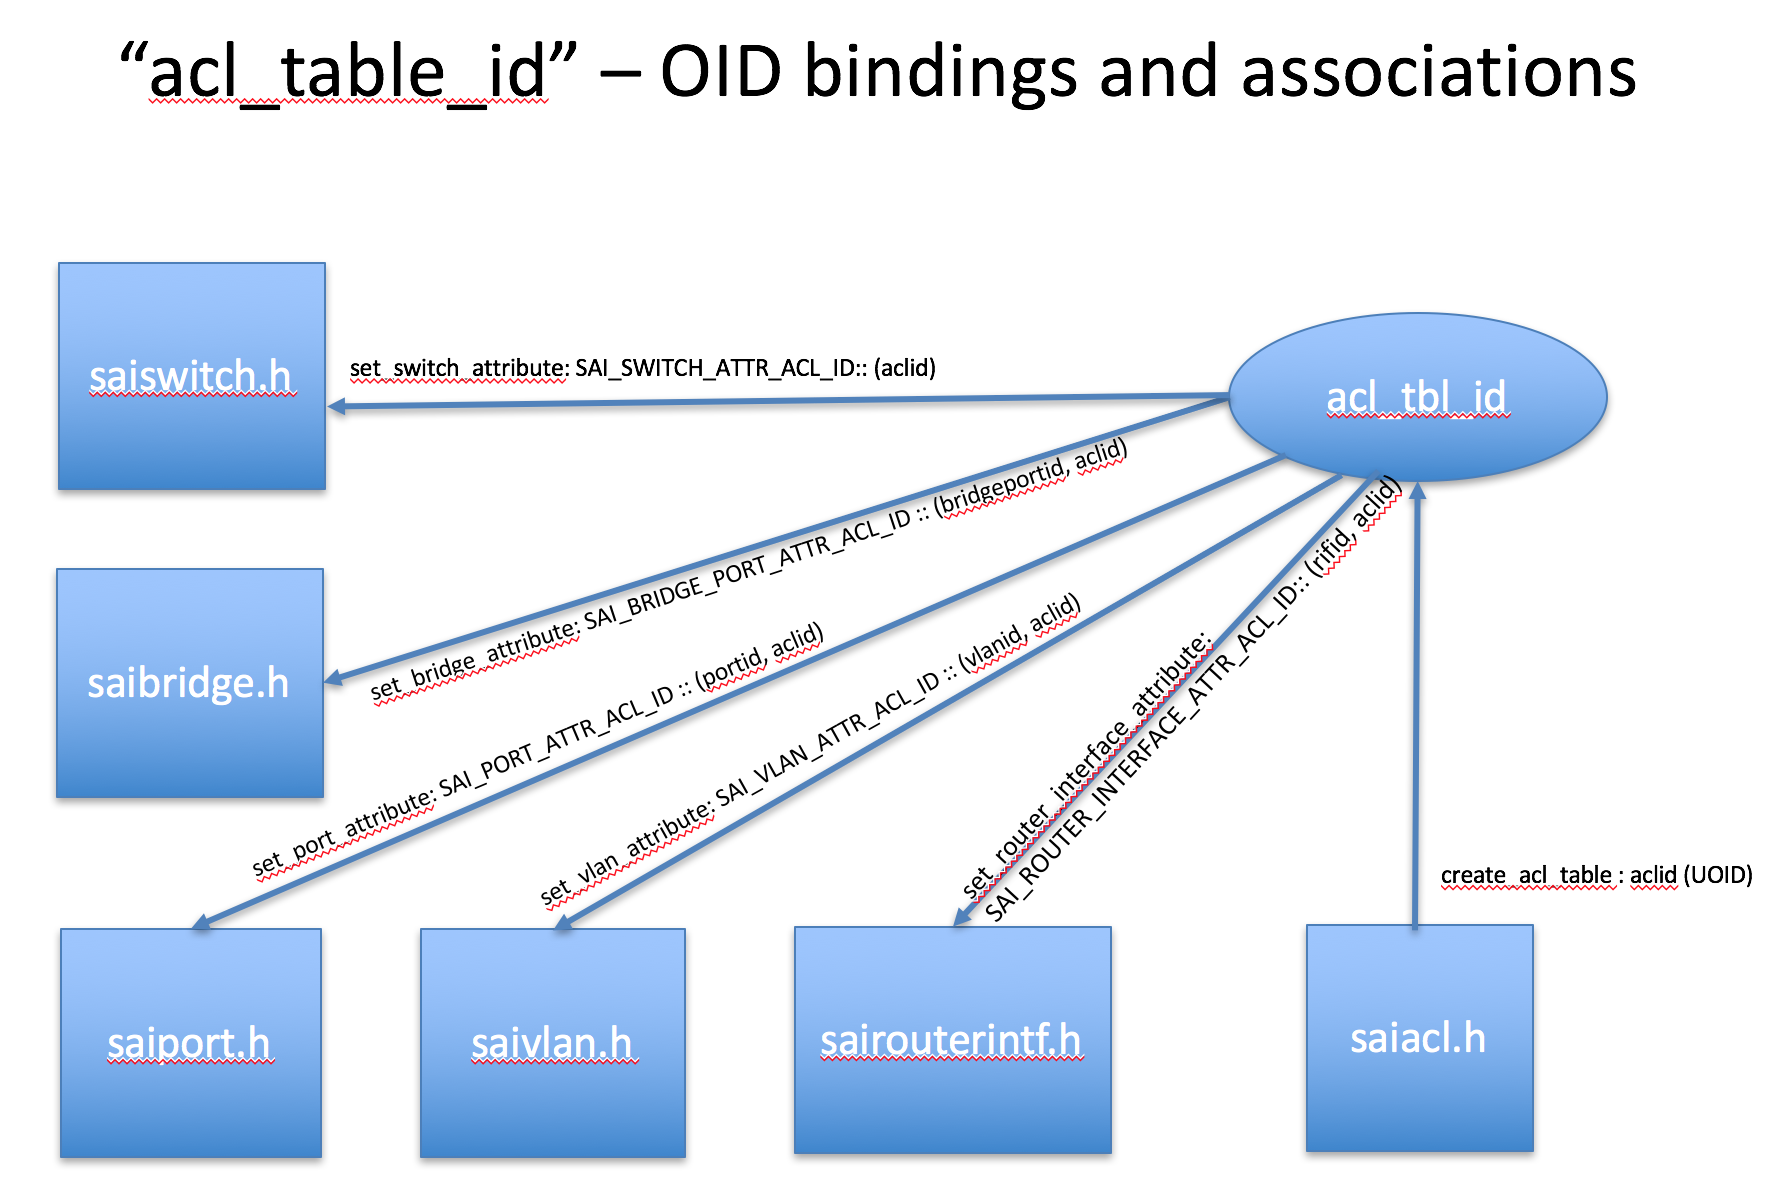
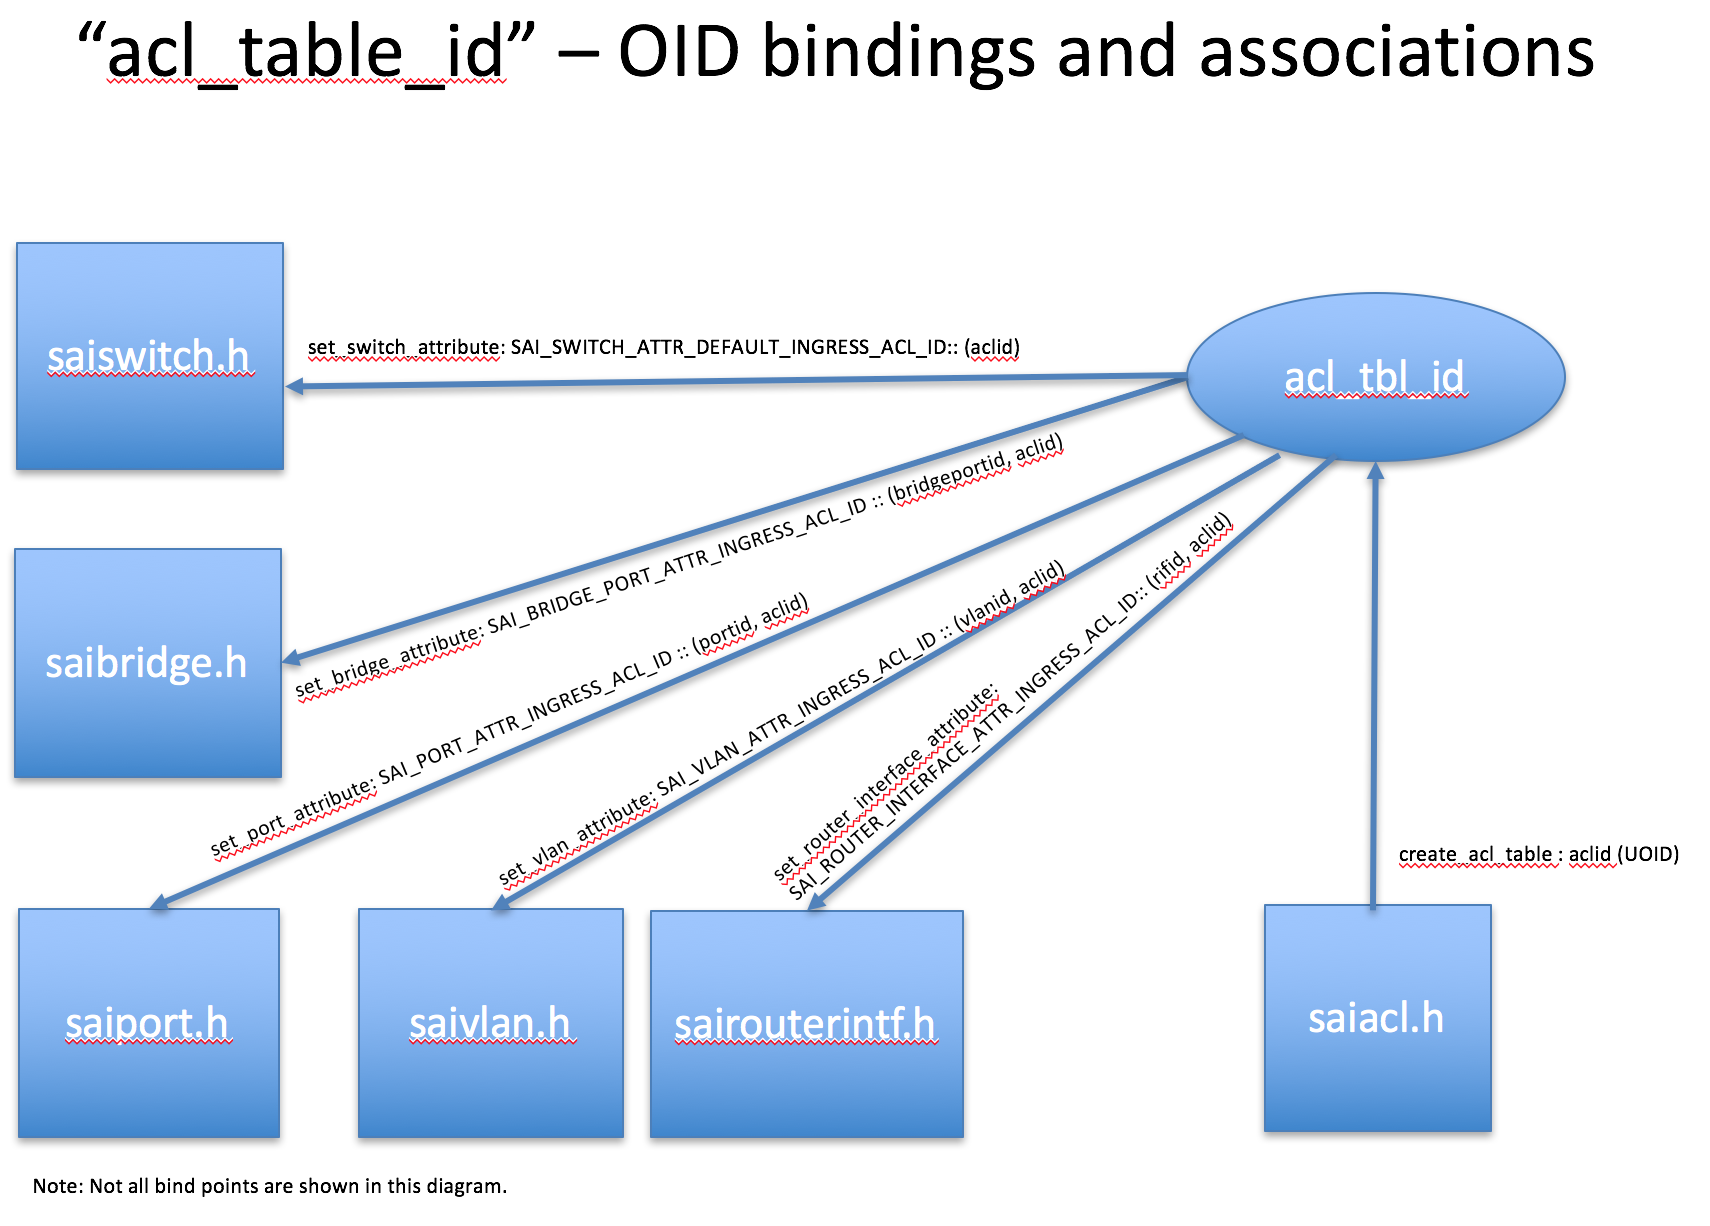
updated acl model with header changes - phase 1 (initial version)

Changed region(s): [[0.0, 0.1859, 0.9918, 0.9916], [0.062, 0.0, 0.9298, 0.093], [0.031, 0.0, 0.062, 0.031]]

diff --git a/inc/saitunnel.h b/inc/saitunnel.h
@@ -266,6 +266,15 @@ typedef enum _sai_tunnel_attr_t
       * (valid when SAI_TUNNEL_ATTR_ENCAP_ECN_MODE=SAI_TUNNEL_ENCAP_ECN_MODE_USER_DEFINED) */
     SAI_TUNNEL_ATTR_ENCAP_MAPPERS,
 
+    /** Bind/Unbind an egress acl on a tunnel after encap [sai_object_id_t].
+     *      Enable (or bind) egress ACL filtering by assigning the ACL table 
+     *      object id as attribute value. 
+     *      Disable (or unbind) egress ACL filtering by assigning 
+     *      SAI_NULL_OBJECT_ID in the attribute value.
+     *      Default Value: SAI_NULL_OBJECT_ID
+     */
+    SAI_TUNNEL_ATTR_ENCAP_EGRESS_ACL_ID,
+
     /** tunnel decap attribute **/
 
     /**  tunnel decap ECN mode [sai_tunnel_decap_ecn_mode_t]
@@ -287,7 +296,25 @@ typedef enum _sai_tunnel_attr_t
      *  (CREATE_ONLY)
      *  Default would be SAI_TUNNEL_DSCP_UNIFORM_MODEL */
     SAI_TUNNEL_ATTR_DECAP_DSCP_MODE,
-    
+
+    /** Bind/Unbind an ingress acl on a tunnel after decap. [sai_object_id_t].
+     *      Enable (or bind) ingress ACL filtering by assigning the ACL table 
+     *      object id as attribute value. 
+     *      Disable (or unbind) ingress ACL filtering by assigning 
+     *      SAI_NULL_OBJECT_ID in the attribute value.
+     *      Default Value: SAI_NULL_OBJECT_ID
+     */
+    SAI_TUNNEL_ATTR_DECAP_INGRESS_ACL_ID,
+
+    /** Bind/Unbind an ingress acl group on a tunnel after decap [sai_object_id_t].
+     *      Enable (or bind) ingress ACL group filtering by assigning 
+     *      the group id as attribute value.
+     *      Disable (or unbind) ingress ACL group filtering by assigning 
+     *      SAI_NULL_OBJECT_ID in the attribute value.
+     *      Default Value: SAI_NULL_OBJECT_ID
+     */
+    SAI_TUNNEL_ATTR_DECAP_INGRESS_ACL_GROUP_ID,
+
     SAI_TUNNEL_ATTR_END,
 
     /** Custom range base value */

diff --git a/inc/sairouterintf.h b/inc/sairouterintf.h
@@ -93,6 +93,33 @@ typedef enum _sai_router_interface_attr_t
     /** MTU [uint32_t] (CREATE_AND_SET) (default to 1514 bytes) */
     SAI_ROUTER_INTERFACE_ATTR_MTU,
 
+    /** Bind/Unbind an ingress acl on a router interface [sai_object_id_t].
+     *      Enable (or bind) ingress ACL filtering by assigning the ACL table 
+     *      object id as attribute value. 
+     *      Disable (or unbind) ingress ACL filtering by assigning 
+     *      SAI_NULL_OBJECT_ID in the attribute value.
+     *      Default Value: SAI_NULL_OBJECT_ID
+     */
+    SAI_ROUTER_INTERFACE_ATTR_INGRESS_ACL_ID,
+
+    /** Bind/Unbind an ingress acl group on a router interface [sai_object_id_t].
+     *      Enable (or bind) ingress ACL group filtering by assigning 
+     *      the group id as attribute value.
+     *      Disable (or unbind) ingress ACL group filtering by assigning 
+     *      SAI_NULL_OBJECT_ID in the attribute value.
+     *      Default Value: SAI_NULL_OBJECT_ID
+     */
+    SAI_ROUTER_INTERFACE_ATTR_INGRESS_ACL_GROUP_ID,
+
+    /** Bind/Unbind an egress acl on a router interface [sai_object_id_t].
+     *      Enable (or bind) egress ACL filtering by assigning the ACL table 
+     *      object id as attribute value. 
+     *      Disable (or unbind) egress ACL filtering by assigning 
+     *      SAI_NULL_OBJECT_ID in the attribute value.
+     *      Default Value: SAI_NULL_OBJECT_ID
+     */
+    SAI_ROUTER_INTERFACE_ATTR_EGRESS_ACL_ID,
+
     /** Packet action when neighbor table lookup miss for this router interface [sai_packet_action_t]
      * (CREATE_AND_SET) (default to SAI_PACKET_ACTION_TRAP) */
     SAI_ROUTER_INTERFACE_ATTR_NEIGHBOR_MISS_PACKET_ACTION,

diff --git a/inc/saiport.h b/inc/saiport.h
@@ -412,6 +412,33 @@ typedef enum _sai_port_attr_t
      * [sai_packet_action_t] (default to SAI_PACKET_ACTION_DROP) */
     SAI_PORT_ATTR_FDB_LEARNING_LIMIT_VIOLATION,
 
+    /** Bind/Unbind an ingress acl on a port [sai_object_id_t].
+     *      Enable (or bind) ingress ACL filtering by assigning the ACL table 
+     *      object id as attribute value. 
+     *      Disable (or unbind) ingress ACL filtering by assigning 
+     *      SAI_NULL_OBJECT_ID in the attribute value.
+     *      Default Value: SAI_NULL_OBJECT_ID
+     */
+    SAI_PORT_ATTR_INGRESS_ACL_ID,
+
+    /** Bind/Unbind an ingress acl group on a port [sai_object_id_t].
+     *      Enable (or bind) ingress ACL group filtering by assigning 
+     *      the group id as attribute value.
+     *      Disable (or unbind) ingress ACL group filtering by assigning 
+     *      SAI_NULL_OBJECT_ID in the attribute value.
+     *      Default Value: SAI_NULL_OBJECT_ID
+     */
+    SAI_PORT_ATTR_INGRESS_ACL_GROUP_ID,
+
+    /** Bind/Unbind an egress acl on a port [sai_object_id_t].
+     *      Enable (or bind) egress ACL filtering by assigning the ACL table 
+     *      object id as attribute value. 
+     *      Disable (or unbind) egress ACL filtering by assigning 
+     *      SAI_NULL_OBJECT_ID in the attribute value.
+     *      Default Value: SAI_NULL_OBJECT_ID
+     */
+    SAI_PORT_ATTR_EGRESS_ACL_ID,
+
     /** Enable/Disable Mirror session [sai_object_list_t].
      * Enable ingress mirroring by assigning list of mirror session
      * object id as attribute value

diff --git a/inc/saiswitch.h b/inc/saiswitch.h
@@ -289,6 +289,33 @@ typedef enum _sai_switch_attr_t
      * Must return SAI_STATUS_OBJECT_IN_USE when try to delete this VR ID. */
     SAI_SWITCH_ATTR_DEFAULT_VIRTUAL_ROUTER_ID,
 
+    /** Bind/Unbind a DEFAULT ingress acl on all flows [sai_object_id_t].
+     *      Enable (or bind) ingress ACL filtering by assigning the ACL table 
+     *      object id as attribute value. 
+     *      Disable (or unbind) ingress ACL filtering by assigning 
+     *      SAI_NULL_OBJECT_ID in the attribute value.
+     * Default Value: SAI_NULL_OBJECT_ID
+     */
+    SAI_SWITCH_ATTR_DEFAULT_INGRESS_ACL_ID,
+
+    /** Bind/Unbind a DEFAULT ingress acl on all flows [sai_object_id_t].
+     *      Enable (or bind) ingress ACL group filtering by assigning 
+     *      the group id as attribute value.
+     *      Disable (or unbind) ingress ACL group filtering by assigning 
+     *      SAI_NULL_OBJECT_ID in the attribute value.
+     * Default Value: SAI_NULL_OBJECT_ID
+     */
+    SAI_SWITCH_ATTR_DEFAULT_INGRESS_ACL_GROUP_ID,
+
+    /** Bind/Unbind a DEFAULT egress acl on all flows [sai_object_id_t].
+     *      Enable (or bind) egress ACL filtering by assigning the ACL table 
+     *      object id as attribute value. 
+     *      Disable (or unbind) egress ACL filtering by assigning 
+     *      SAI_NULL_OBJECT_ID in the attribute value.
+     * Default Value: SAI_NULL_OBJECT_ID
+     */
+    SAI_SWITCH_ATTR_DEFAULT_EGRESS_ACL_ID,
+
     /** Maximum traffic classes limit [sai_uint8_t] */
     SAI_SWITCH_ATTR_QOS_MAX_NUMBER_OF_TRAFFIC_CLASSES,
 

diff --git a/inc/saivlan.h b/inc/saivlan.h
@@ -85,6 +85,33 @@ typedef enum _sai_vlan_attr_t
       */
     SAI_VLAN_ATTR_LEARN_DISABLE,
 
+    /** Bind/Unbind an ingress acl on a vlan [sai_object_id_t].
+     *      Enable (or bind) ingress ACL filtering by assigning the ACL table 
+     *      object id as attribute value. 
+     *      Disable (or unbind) ingress ACL filtering by assigning 
+     *      SAI_NULL_OBJECT_ID in the attribute value.
+     *      Default Value: SAI_NULL_OBJECT_ID
+     */
+    SAI_VLAN_ATTR_INGRESS_ACL_ID,
+
+    /** Bind/Unbind an ingress acl group on a vlan [sai_object_id_t].
+     *      Enable (or bind) ingress ACL group filtering by assigning 
+     *      the group id as attribute value.
+     *      Disable (or unbind) ingress ACL group filtering by assigning 
+     *      SAI_NULL_OBJECT_ID in the attribute value.
+     *      Default Value: SAI_NULL_OBJECT_ID
+     */
+    SAI_VLAN_ATTR_INGRESS_ACL_GROUP_ID,
+
+    /** Bind/Unbind an egress acl on a vlan [sai_object_id_t].
+     *      Enable (or bind) egress ACL filtering by assigning the ACL table 
+     *      object id as attribute value. 
+     *      Disable (or unbind) egress ACL filtering by assigning 
+     *      SAI_NULL_OBJECT_ID in the attribute value.
+     *      Default Value: SAI_NULL_OBJECT_ID
+     */
+    SAI_VLAN_ATTR_EGRESS_ACL_ID,
+
     /** User based Meta Data
       * [sai_uint32_t] (CREATE_AND_SET)
       * Value Range SAI_SWITCH_ATTR_VLAN_USER_META_DATA_RANGE */

diff --git a/inc/sailag.h b/inc/sailag.h
@@ -42,6 +42,33 @@ typedef enum _sai_lag_attr_t {
 
     /** READ_WRITE */
 
+    /** Bind/Unbind an ingress acl on a lag [sai_object_id_t].
+     *      Enable (or bind) ingress ACL filtering by assigning the ACL table 
+     *      object id as attribute value. 
+     *      Disable (or unbind) ingress ACL filtering by assigning 
+     *      SAI_NULL_OBJECT_ID in the attribute value.
+     *      Default Value: SAI_NULL_OBJECT_ID
+     */
+    SAI_LAG_ATTR_INGRESS_ACL_ID,
+
+    /** Bind/Unbind an ingress acl group on a lag [sai_object_id_t].
+     *      Enable (or bind) ingress ACL group filtering by assigning 
+     *      the group id as attribute value.
+     *      Disable (or unbind) ingress ACL group filtering by assigning 
+     *      SAI_NULL_OBJECT_ID in the attribute value.
+     *      Default Value: SAI_NULL_OBJECT_ID
+     */
+    SAI_LAG_ATTR_INGRESS_ACL_GROUP_ID,
+
+    /** Bind/Unbind an egress acl on a lag [sai_object_id_t].
+     *      Enable (or bind) egress ACL filtering by assigning the ACL table 
+     *      object id as attribute value. 
+     *      Disable (or unbind) egress ACL filtering by assigning 
+     *      SAI_NULL_OBJECT_ID in the attribute value.
+     *      Default Value: SAI_NULL_OBJECT_ID
+     */
+    SAI_LAG_ATTR_EGRESS_ACL_ID,
+
     SAI_LAG_ATTR_END,
 
     /** Custom range base value */

diff --git a/doc/SAI-Proposal-ACL-1.md b/doc/SAI-Proposal-ACL-1.md
@@ -26,10 +26,9 @@ In this proposal, we propose a model for binding an ACL table, clarify the usage
 ![SAI acl design](figures/sai_aclobjs.png "Figure 1: ACL ID's relationship and binding points with other SAI objects.")
 __Figure 1: ACL ID's relationship and binding points with other SAI objects__
 
-
 ### ACL ID Binding Model 
 We propose the usage of UOID based ACL Table ID allocated by the create_acl_table function should be uniformly applied to identify the binding point. This bind point is typically identified by various physical and or logical interfaces identified by various objects: 
-1. Physical Ports (saiport.h)
+1. Physical Ports and Lag (saiport.h and sailag.h)
 2. VLANs (saivlan.h)
 3. Router Interfaces (sairouterintf.h)
 4. Bridge Ports (saibridgeintf.h) - includes both .1q and .1d bridge ports
@@ -46,12 +45,23 @@ __Figure 2: Group ID and ACL ID's relation with several binding points.__
 ### Metadata Usage Model
 Metadata is a completely user defined field or an identifier that does not need to be allocated within the SAI implementtaions. The Metadata field(s) in the logical pipeline is to allow users to derive a *Metadata* field from any SAI objects (ports, vlans, rifs, bridge ports, Etc.), as well as flow tables (like unicast/multicast FDBs, Neighbor table, acl table entries, route entries). Currently the Metadata field derived at various stages of the pipeline overrides the previous metadata field.
 
+### ACLs on Tunnels 
+Tunnel interfaces are defined by saitunnel.h. The following tunnel attributes can be configured on the Decap flow as well as Encap flows: 
+* SAI_TUNNEL_ATTR_DECAP_INGRESS_ACL_ID [Ingress ACL table bound to inner packets ]
+* SAI_TUNNEL_ATTR_DECAP_INGRESS_ACL_GROUP_ID [Ingress ACL group bound to inner packets]
+* SAI_TUNNEL_ATTR_ENCAP_EGRESS_ACL_ID [EGRESS ACL bound on encap or originated tunnels]
+
 ### ACL Stages 
 Based on various binding points, the scope of the ACL stages are restricted to primarily INGRESS and EGRESS. The ingress stage of the ACL table gets applied to various flows right after the determinition of the type of interface. For a bridge flow after the port or the bridge port determination, for the router flow right after the rif determination, and for a tunnelled flow it is after the tunnel decap and tunnel determination stage. Please refer to the ACL changes to the behavioral pipeline model for various ACL stages.
 
 ## Example ##
-The following examples shows how to define ACLs, Group IDs, Metadata, Etc. 
+TBD: Examples show how to define ACLs, Group IDs, Metadata, Etc.
+TBD: Update pipeline models after incorporating all review feedbacks.
 
 ## References ##
 1. SAI v0.9.1 specification.
 
+## Next Steps
+1. Community Review 
+2. Update examples
+3. Update pipeline models
